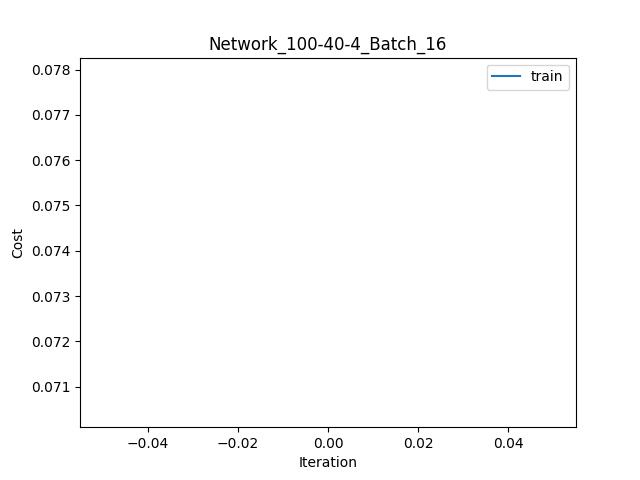
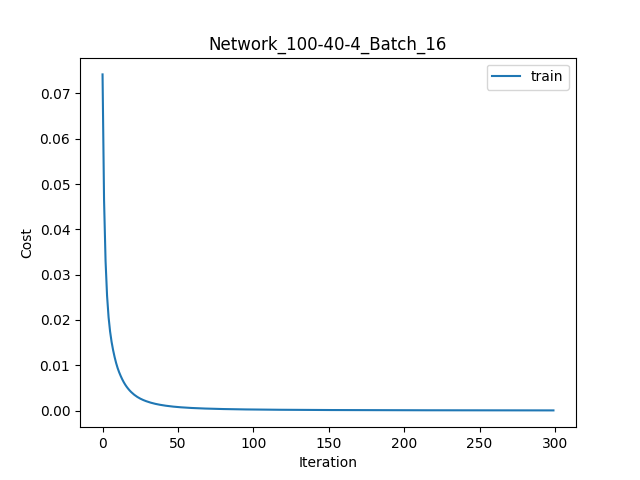
update

diff --git a/006_model.py b/006_model.py
@@ -1,4 +1,5 @@
 import numpy as np
+import time
 from layer import Output, Hidden
 from copy import deepcopy
 from helper import load_datasets
@@ -227,10 +228,15 @@ def do_net3(verification=False, lr=0.01, batch=1, epoch=1, beta=0.):
 
 if __name__ == "__main__":
     np.random.seed(0)
+    start_time = time.time()
     # do_net1(verification=True)
     # do_net2(verification=True)
     # do_net3(verification=True)
     # do_net1(epoch=300, batch=16)
-    do_net2(epoch=300, batch=16)
-    # do_net2()
-    # do_net3()
+    do_net1(epoch=19, batch=1)
+    # do_net2(epoch=300, batch=16)
+    # do_net2(epoch=19, batch=1)
+    # do_net3(epoch=300, batch=16, beta=0.8)
+    # do_net3(epoch=19, batch=1)
+    elapsed_time = time.time() - start_time
+    print(elapsed_time)
